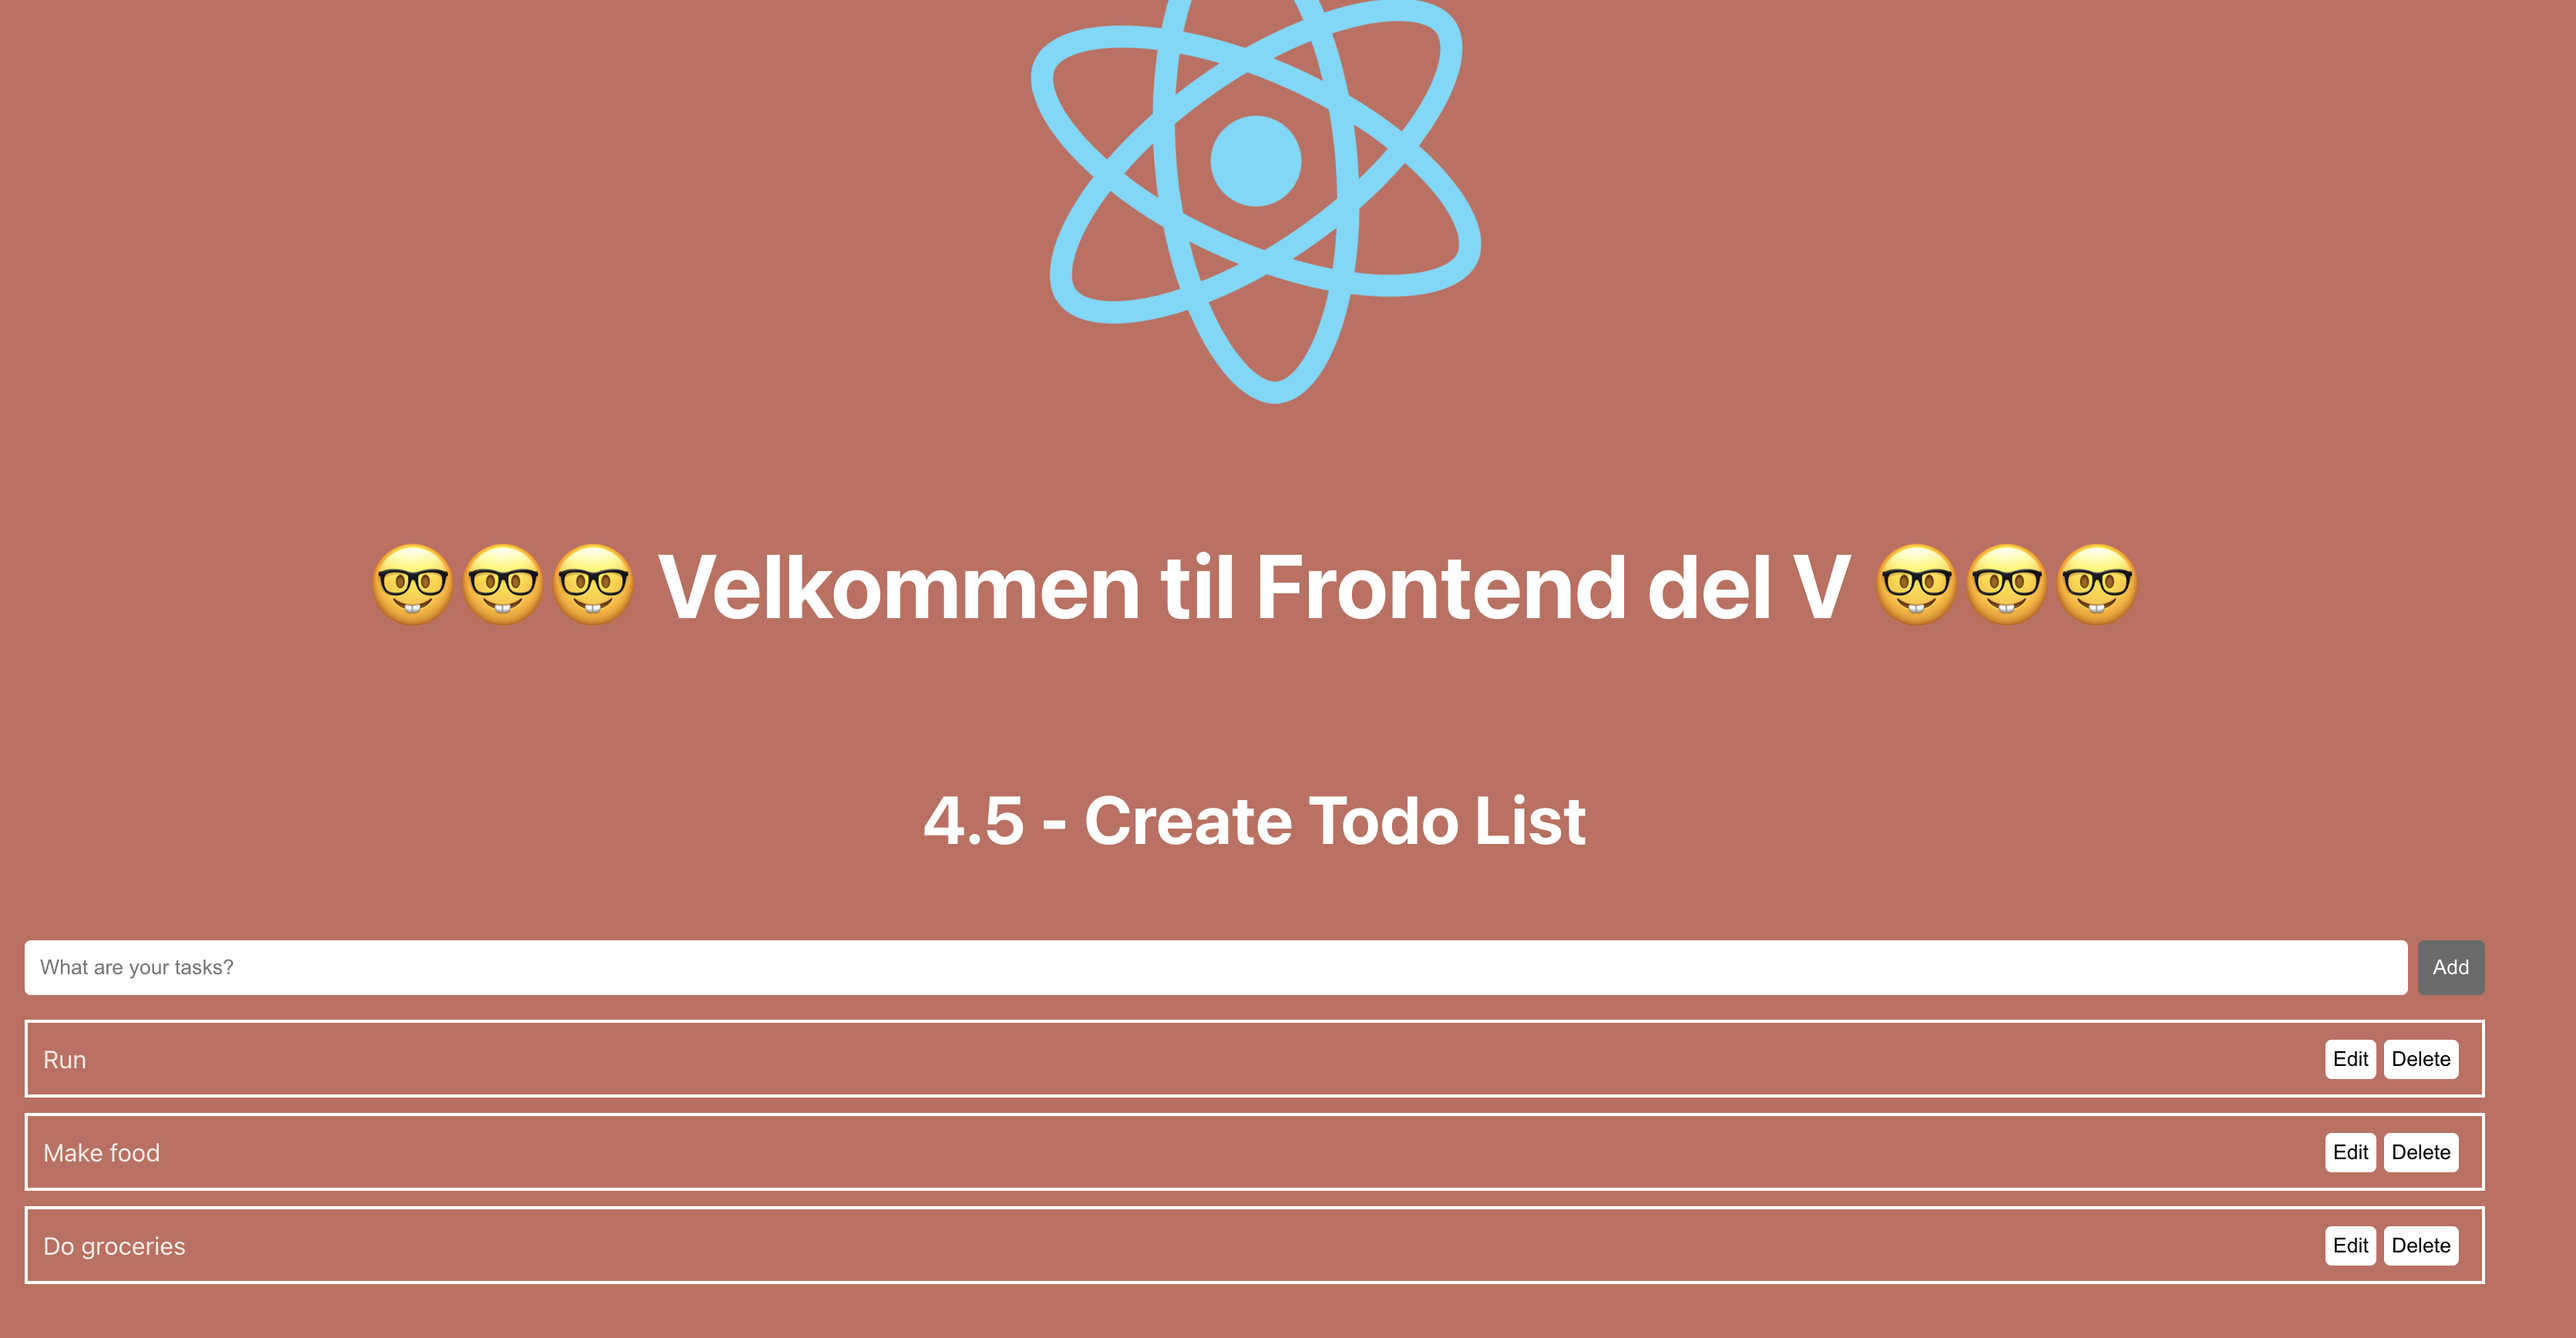
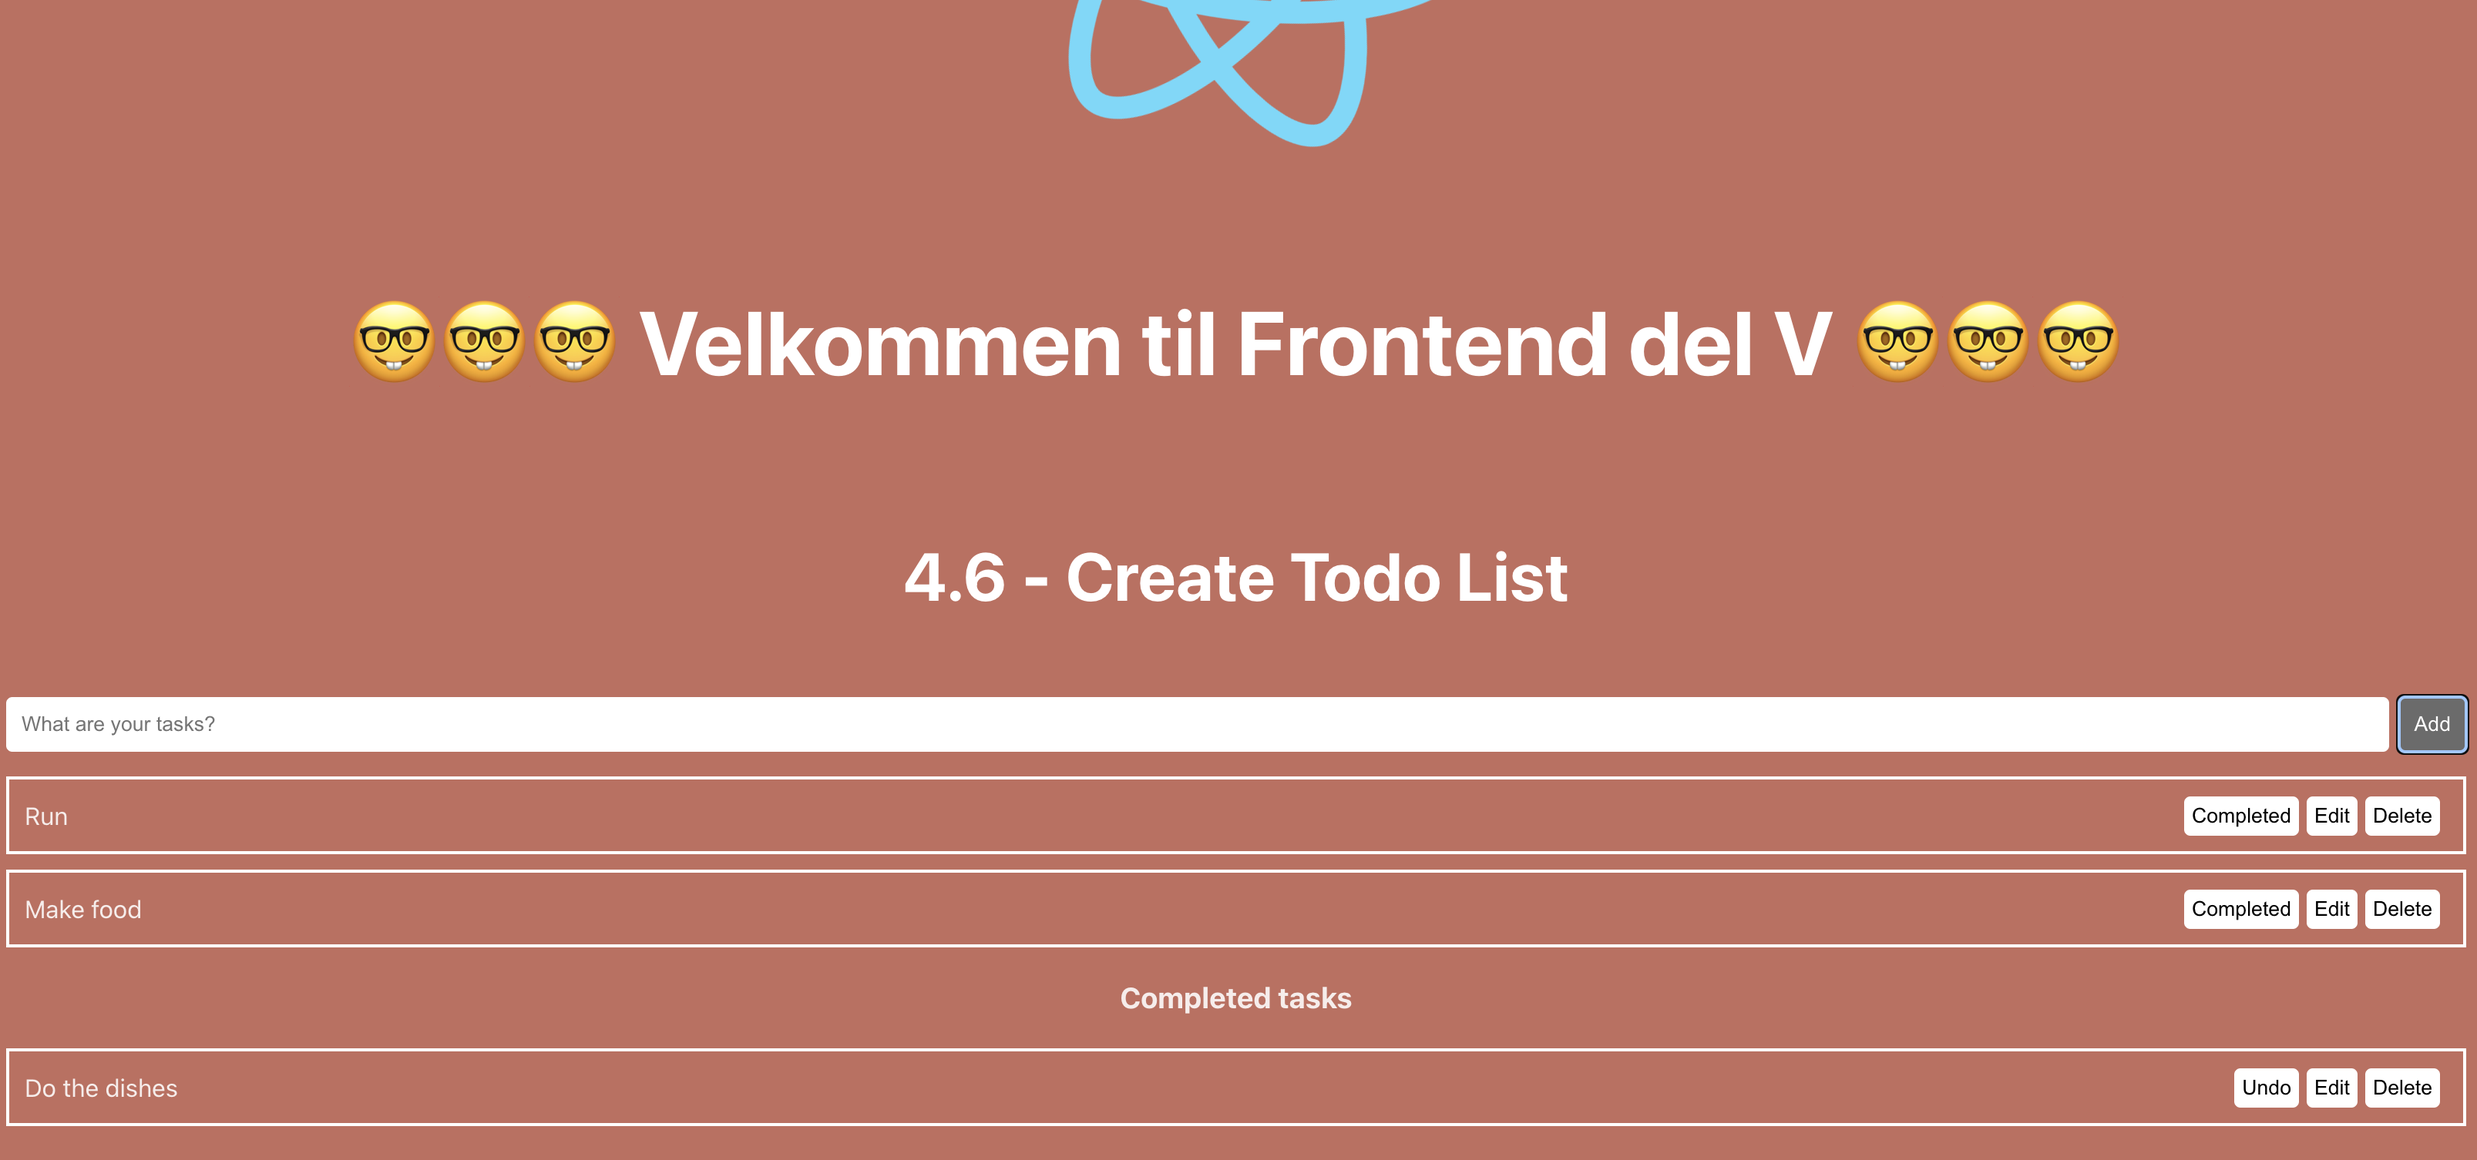
result ready

Changed region(s): [[0.0, 0.593, 1.0, 0.9675], [0.1245, 0.0, 0.8712, 0.3433], [0.1245, 0.4057, 0.8401, 0.5305]]

diff --git a/src/components/todoList/TodoList.tsx b/src/components/todoList/TodoList.tsx
@@ -4,6 +4,7 @@ import './todoList.css';
 type Todo = {
   id: number;
   text: string;
+  completed: boolean;
 };
 
 const TodoList: React.FC = () => {
@@ -12,7 +13,7 @@ const TodoList: React.FC = () => {
 
   const addTodo = () => {
     if (newTodo.trim()) {
-      setTodos([...todos, { id: Date.now(), text: newTodo }]);
+      setTodos([...todos, { id: Date.now(), text: newTodo, completed: false }]);
       setNewTodo('');
     }
   };
@@ -35,6 +36,74 @@ const TodoList: React.FC = () => {
     }
   };
 
+  const onCompletedTodo = (id: number) => {
+    setTodos(
+      todos.map((todo) =>
+        todo.id === id ? { ...todo, completed: !todo.completed } : todo,
+      ),
+    );
+  };
+
+  const renderUncompletedTodos = () => {
+    return todos
+      .filter((todo) => todo.completed === false)
+      .map((todo) => (
+        <li key={todo.id} className="todo-item">
+          <span>{todo.text}</span>
+          <div>
+            <button
+              className="delete-button"
+              onClick={() => onCompletedTodo(todo.id)}
+            >
+              <span>Completed</span>
+            </button>
+            <button
+              className="delete-button"
+              onClick={() => onEditTodo(todo.id)}
+            >
+              <span>Edit</span>
+            </button>
+            <button
+              className="delete-button"
+              onClick={() => deleteTodo(todo.id)}
+            >
+              <span>Delete</span>
+            </button>
+          </div>
+        </li>
+      ));
+  };
+
+  const renderCompletedTodos = () => {
+    return todos
+      .filter((todo) => todo.completed === true)
+      .map((todo) => (
+        <li key={todo.id} className="todo-item">
+          <span>{todo.text}</span>
+          <div>
+            <button
+              className="delete-button"
+              onClick={() => onCompletedTodo(todo.id)}
+            >
+              <span>Undo</span>
+            </button>
+            <button
+              className="delete-button"
+              onClick={() => onEditTodo(todo.id)}
+            >
+              <span>Edit</span>
+            </button>
+            <button
+              className="delete-button"
+              onClick={() => deleteTodo(todo.id)}
+            >
+              <span>Delete</span>
+            </button>
+          </div>
+        </li>
+      ));
+  };
+
   return (
     <div className="todo-container">
       <div className="todo-input-container">
@@ -48,28 +117,10 @@ const TodoList: React.FC = () => {
           Add
         </button>
       </div>
-      <ul className="todo-list">
-        {todos.map((todo) => (
-          <li key={todo.id} className="todo-item">
-            <span>{todo.text}</span>
-            <div>
-            <button
-                className="delete-button"
-                onClick={() => onEditTodo(todo.id)}
-              >
-                <span>Edit</span>
-              </button>
-              <button
-                className="delete-button"
-                onClick={() => deleteTodo(todo.id)}
-              >
-                <span>Delete</span>
-              </button>
+      <ul className="todo-list">{renderUncompletedTodos()}</ul>
 
-            </div>
-          </li>
-        ))}
-      </ul>
+      <h3>Completed tasks</h3>
+      <ul className="todo-list">{renderCompletedTodos()}</ul>
     </div>
   );
 };

diff --git a/src/App.tsx b/src/App.tsx
@@ -6,7 +6,7 @@ import TodoList from './components/todoList/TodoList';
 const App: React.FC = () => {
   return (
     <div>
-      <Welcome demo="4.5 - Create Todo List" />
+      <Welcome demo="4.6 - Create Todo List" />
       <TodoList />
     </div>
   );
